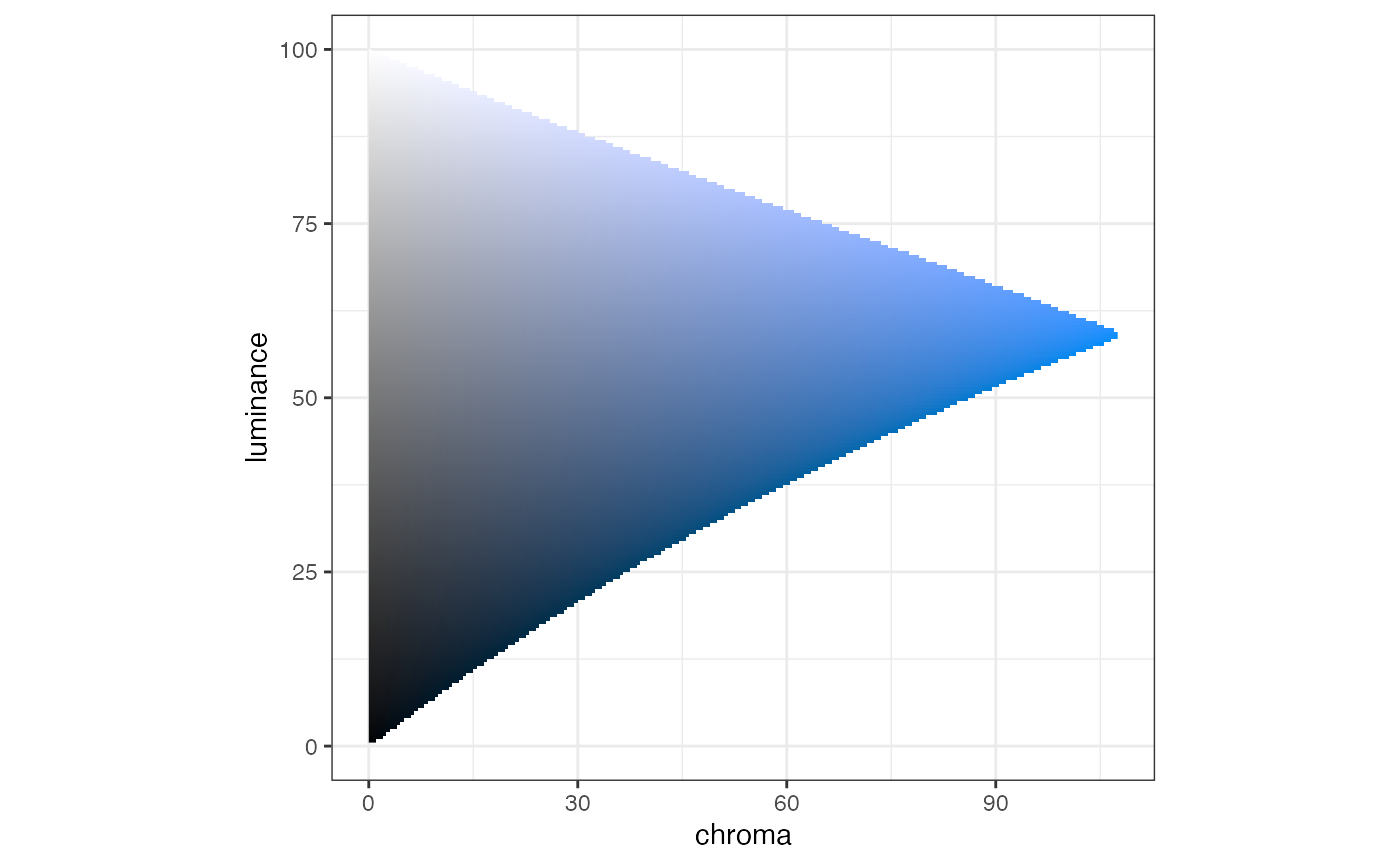
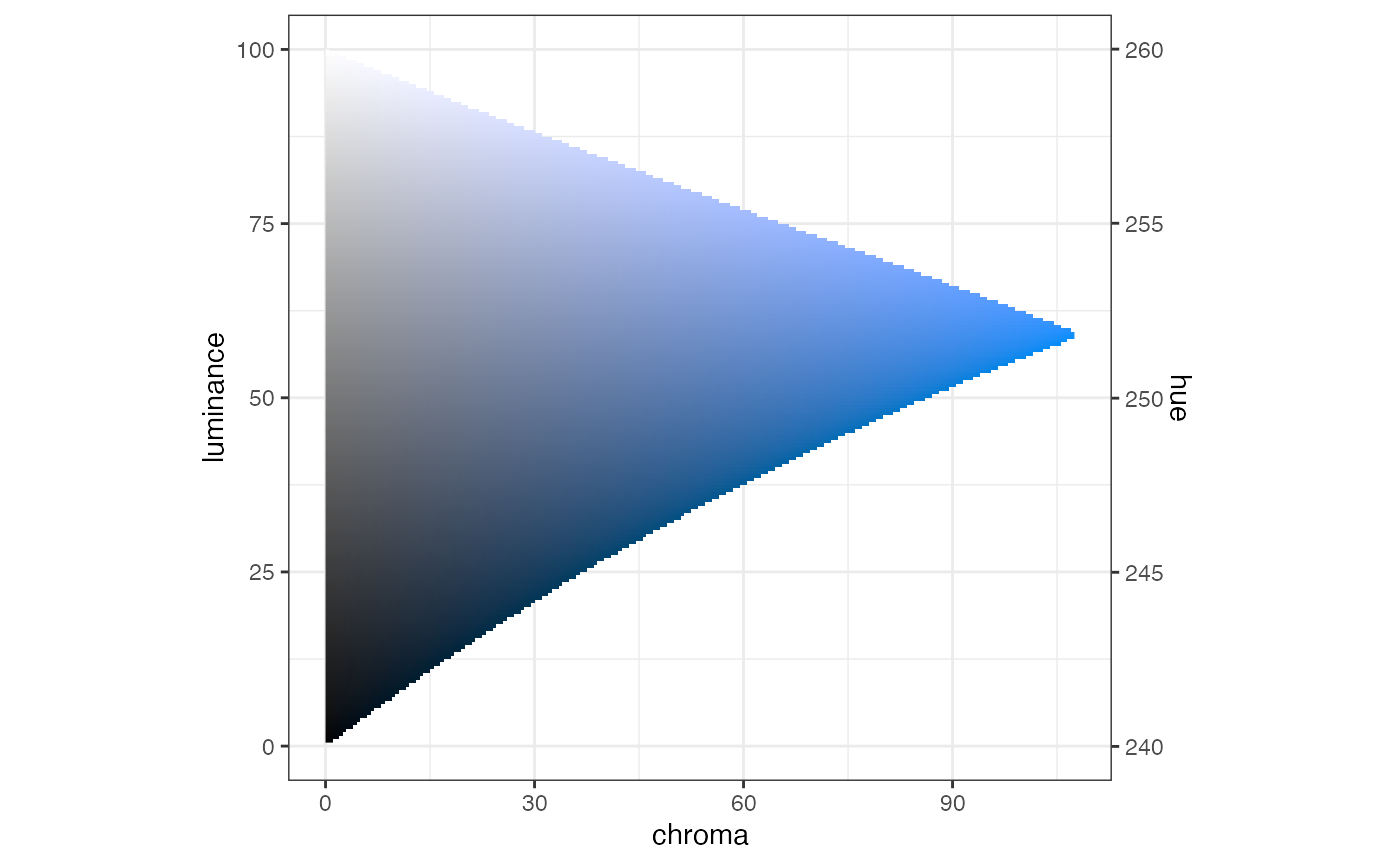
Built site for colorpath: 0.0.0.9013@3d10c89

diff --git a/reference/plot_surface_hl.html b/reference/plot_surface_hl.html
@@ -146,8 +146,7 @@
     <pre class="examples"><div class='input'>  <span class='co'># multi hue</span>
   <span class='va'>sfc_blues_multi</span> <span class='op'>&lt;-</span> <span class='fu'><a href='surface_hl.html'>surface_hl</a></span><span class='op'>(</span><span class='fu'><a href='https://rdrr.io/r/base/c.html'>c</a></span><span class='op'>(</span><span class='fl'>240</span>, <span class='fl'>260</span><span class='op'>)</span><span class='op'>)</span>
   <span class='fu'>plot_surface_hl</span><span class='op'>(</span><span class='va'>sfc_blues_multi</span><span class='op'>)</span>
-</div><div class='output co'>#&gt; <span class='message'>Scale for 'y' is already present. Adding another scale for 'y', which will</span>
-#&gt; <span class='message'>replace the existing scale.</span></div><div class='img'><img src='plot_surface_hl-1.png' alt='' width='700' height='433' /></div><div class='input'>
+</div><div class='img'><img src='plot_surface_hl-1.png' alt='' width='700' height='433' /></div><div class='input'>
 </div></pre>
   </div>
   <div class="col-md-3 hidden-xs hidden-sm" id="pkgdown-sidebar">

diff --git a/articles/colorpath.html b/articles/colorpath.html
@@ -258,9 +258,7 @@
 <span class="co">#&gt; [1] 240 244 248 252 256 260</span></pre></div>
 <p>We can plot what such a function looks like in the gamut:</p>
 <div class="sourceCode" id="cb13"><pre class="downlit">
-<span class="fu"><a href="../reference/plot_surface_hl.html">plot_surface_hl</a></span><span class="op">(</span><span class="va">sfc_blues</span><span class="op">)</span>
-<span class="co">#&gt; Scale for 'y' is already present. Adding another scale for 'y', which will</span>
-<span class="co">#&gt; replace the existing scale.</span></pre></div>
+<span class="fu"><a href="../reference/plot_surface_hl.html">plot_surface_hl</a></span><span class="op">(</span><span class="va">sfc_blues</span><span class="op">)</span></pre></div>
 <p><img src="colorpath_files/figure-html/unnamed-chunk-13-1.png" width="700"></p>
 <p>Using this slice through the gamut, we can define an HCL data fram (then an LUV matrix) of control points using a data frame in CL, and a surface function:</p>
 <div class="sourceCode" id="cb14"><pre class="downlit">
